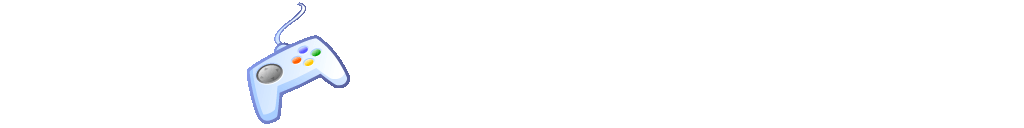
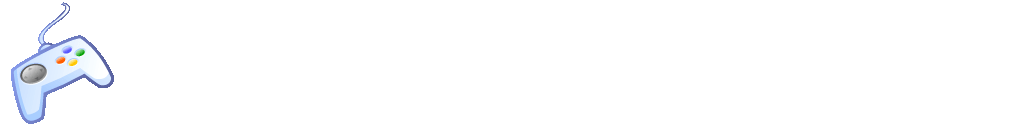
Bloodiey The Flowing

diff --git a/docs/index.html b/docs/index.html
@@ -14,10 +14,10 @@ background-color:#7d3997;">
 
 </style>
 </head>
-<body style="background-image: url('http://bloodieysart.rf.gd/blde/img/LOGOWIN.BMP');">
+<body style="background-image: url('https://raw.githubusercontent.com/BloodMoonDS/vs-bloodiey-modstore/refs/heads/main/docs/assets/LOGOWIN.BMP');">
 <div id="header" style="width:96%;margin:0 0 0 0;padding:6px 2% 6px 2%;font-family:'trebuchet MS', Verdana, sans-serif;color:#FFF;
-background-color:#7d3997;">
-    <img src="http://bloodieysart.rf.gd/blde/img/art.png">
+background-color:#4d6cc0;">
+    <img src="https://raw.githubusercontent.com/BloodMoonDS/vs-bloodiey-modstore/refs/heads/main/docs/assets/bloodieysart3.png">
     <h1 style="font-size:2.4em;margin:0;color:#FFF;"><marquee>Vs Bloodiey Mod Store</marquee></h1>
 <div id="content" style="margin:0 0 0 2%;position:relative; background:#FFF;width:96%;margin-top:8px;padding:10px;position:relative;">
  <div class="content-container"><fieldset style="padding:0 15px 10px 15px;">
